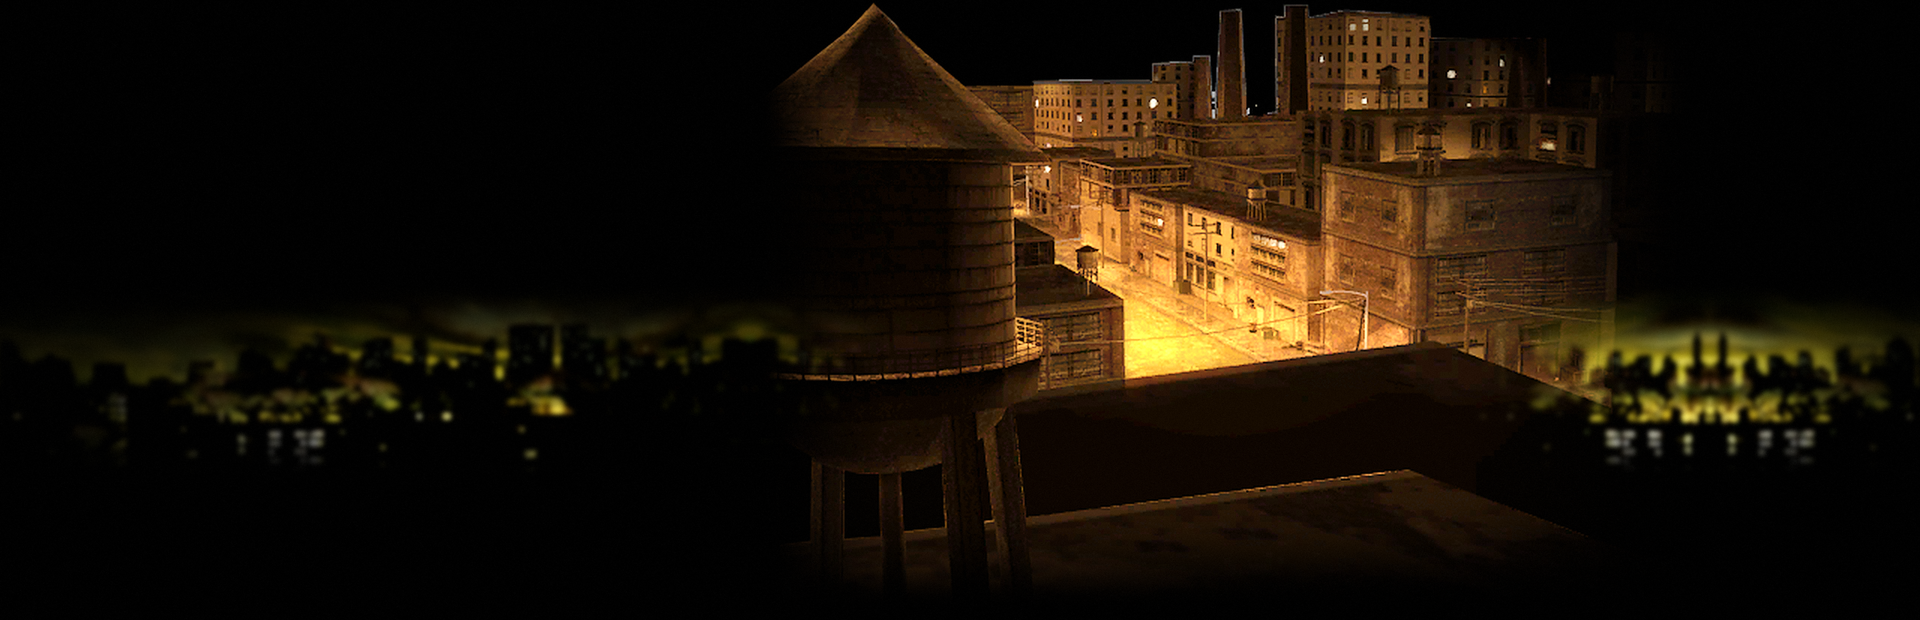
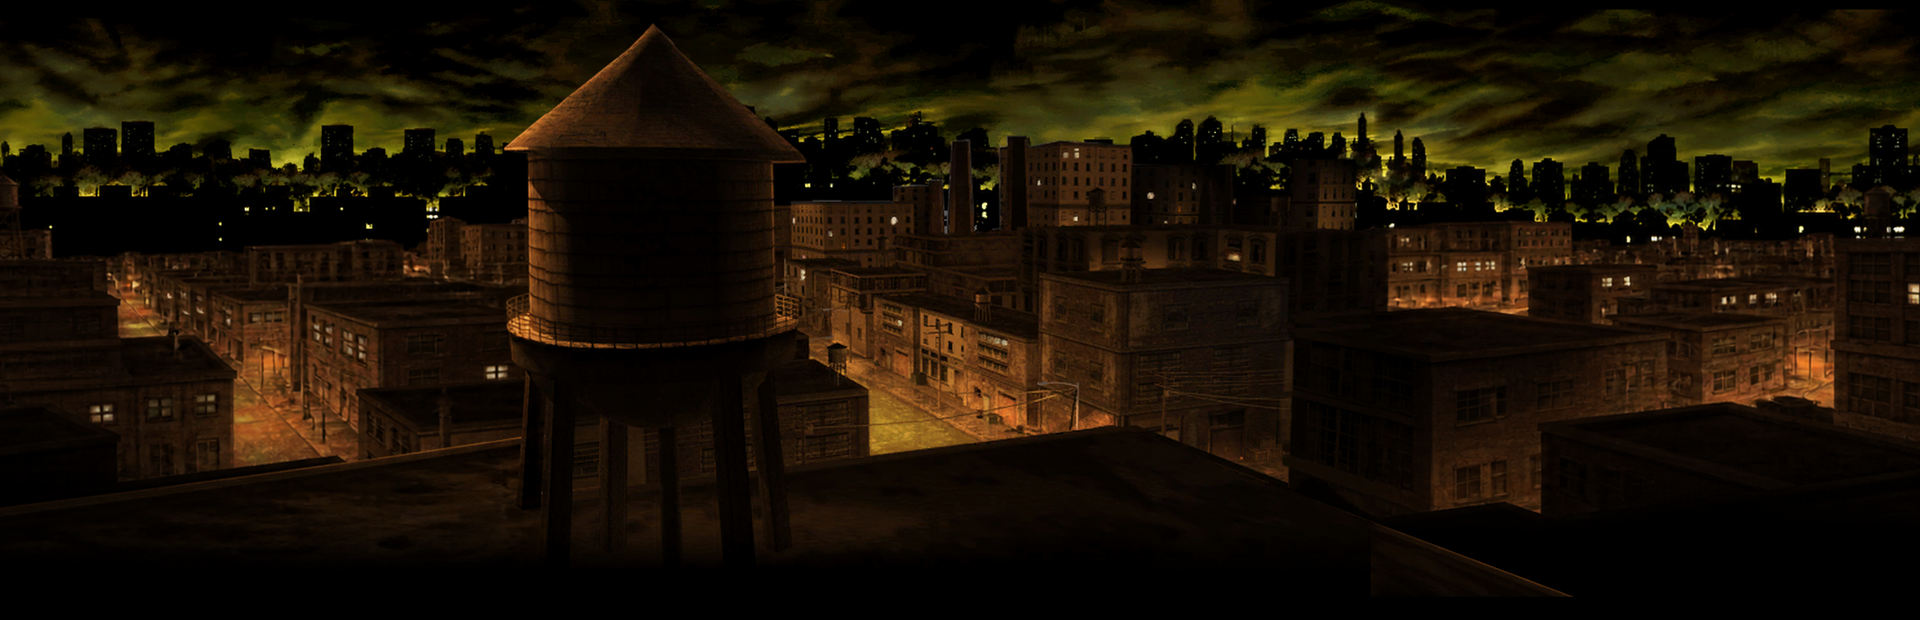
chore(branding): refresh artwork from HD widescreen assets
Use the published HD city panorama and title while retaining the original
Impact Fan Recomp subtitle. Update the owner-approved artwork fingerprint
and exercise Add to Steam with the actual Windows and Linux payload art.

diff --git a/scripts/make-branding.py b/scripts/make-branding.py
@@ -3,11 +3,14 @@
 
     python scripts/make-branding.py render [--out branding]
     python scripts/make-branding.py masters --corpus <decoded-texture-corpus> [--out branding]
+    python scripts/make-branding.py hd-masters --pack <menu-ui-hd-wide.zip> [--out branding]
     python scripts/make-branding.py fan-tag [--font impact.ttf] [--out branding]
 
 `render` needs only Pillow and NumPy and rebuilds everything under `branding/` from
-`branding/masters/` (the shield, the title wordmark, the title-screen scene and its skyline,
-and `cover.jpg`, the official cover scan, when present). `masters` rebuilds those four masters from the decoded
+`branding/masters/` (the shield, the title wordmark, the title-screen scene and its skyline;
+the legacy 640px scene also uses `cover.jpg`, the official cover scan, when present).
+`hd-masters` replaces the scene, skyline and wordmark from a published HD widescreen menu pack;
+the existing shield and subtitle masters are retained. `masters` rebuilds the original masters from the decoded
 textures of a dump: the corpus is the one `scripts/hd_corpus.py` writes (`corpus.json` plus
 `originals/`), and the source of every master is recorded in `branding/README.md`.
 
@@ -21,6 +24,7 @@ committing exactly these files (D98). `scripts/check-source-tree.py` pins them b
 of `branding/SHA256SUMS`, which this script writes last.
 """
 import argparse
+import configparser
 import hashlib
 import json
 import struct
@@ -28,6 +32,7 @@ import sys
 import zlib
 from io import BytesIO
 from pathlib import Path
+from zipfile import ZipFile
 
 import numpy as np
 from PIL import Image, ImageDraw, ImageFilter, ImageFont, ImageOps
@@ -105,6 +110,12 @@ def master_wordmark(src):
     logo = rgbi.convert('RGBA')
     logo.putalpha(alpha)
     logo = logo.crop(alpha_bbox(logo))
+    return ink_wordmark(logo)
+
+
+def ink_wordmark(logo):
+    """Keep the silver artwork intact and put dark ink behind its transparent letter openings."""
+    logo = logo.crop(alpha_bbox(logo))
     pad = 8
     canvas = Image.new('RGBA', (logo.width + 2 * pad, logo.height + 2 * pad), (0, 0, 0, 0))
     canvas.paste(logo, (pad, pad))
@@ -116,11 +127,71 @@ def master_wordmark(src):
     above = np.maximum.accumulate(sol, axis=0)
     below = np.maximum.accumulate(sol[::-1], axis=0)[::-1]
     plate = above & below & ~sol  # the plate behind FIGHT FOR NY: letters open at its edge
-    plate[:, :pad + 330] = False
+    plate[:, :pad + round(logo.width * 0.17)] = False
     holes_img = Image.fromarray(((holes | plate) * 255).astype(np.uint8)).filter(ImageFilter.MaxFilter(3))
     fill = Image.new('RGBA', canvas.size, INK + (255,))
     fill.putalpha(holes_img)
     return Image.alpha_composite(fill, canvas)
+
+
+def hd_masters(pack, out):
+    """Assemble the published HD pack's prestart tiles at the authored idle positions.
+
+    Three pixels per logical pixel gives a 5120x1440 32:9 master. Side slabs
+    contribute only outside the original 640px stage. No mirrored or invented tiles.
+    """
+    ids = {
[6 lines of base64/hex data omitted]
+    }
+    with ZipFile(pack) as archive:
+        manifests = [n for n in archive.namelist() if n.endswith('/manifest.ini') or n == 'manifest.ini']
+        if len(manifests) != 1:
+            raise ValueError('HD pack must contain exactly one manifest.ini')
+        manifest = manifests[0]
+        prefix = manifest[:-len('manifest.ini')]
+        cfg = configparser.ConfigParser()
+        cfg.read_string(archive.read(manifest).decode('utf-8-sig'))
+
+        def texture(path):
+            return Image.open(BytesIO(archive.read(prefix + path))).convert('RGBA')
+
+        def layer(first, second):
+            result = Image.new('RGBA', (5120, 1536))
+            for item in cfg['wide'][first].split(';'):
+                offset, path = item.split(':', 1)
+                x = 1600 + int(offset) * 3
+                slab = texture(path).resize((1536, 1536), Image.LANCZOS)
+                # Runtime side slabs overlap their anchor; retain only offstage scenery.
+                left, right = max(0, x), min(5120, x + 1536)
+                if int(offset) < 0:
+                    right = min(right, 1600)
+                else:
+                    left = max(left, 3520)
+                if right > left:
+                    result.paste(slab.crop((left - x, 0, right - x, 1536)), (left, 0))
+            for key, x, width in ((first, 1600, 1536), (second, 3136, 384)):
+                image = texture(cfg['textures'][key])
+                image = image.resize((width, 1536), Image.LANCZOS)
+                result.paste(image, (x, 0))
+            return result
+
+        sky = layer(*ids['sky'])
+        scene = Image.new('RGBA', (5120, 1440), (0, 0, 0, 255))
+        scene.alpha_composite(sky.crop((0, 402, 5120, 1350)))
+        scene.alpha_composite(layer(*ids['city']).crop((0, 0, 5120, 930)), (0, 306))
+        scene.alpha_composite(layer(*ids['tower']).crop((0, 0, 5120, 1338)), (0, 48))
+        masters = out / 'masters'
+        masters.mkdir(parents=True, exist_ok=True)
+        scene.convert('RGB').save(masters / 'scene.png', optimize=True)
+        sky.crop((0, 402, 5120, 1350)).convert('RGB').save(masters / 'skyline.png', optimize=True)
[1 lines of base64/hex data omitted]
+        ink_wordmark(texture(cfg['textures'][logo_id])).save(masters / 'wordmark.png', optimize=True)
+        print(f'HD masters from {cfg["pack"]["name"]}; archive SHA-256 {hashlib.sha256(pack.read_bytes()).hexdigest()}')
 
 
 def master_scene(corpus):
@@ -179,8 +250,11 @@ def master_fan_tag(font_path, text='FAN RECOMP', cap=152, tracking=24, seed=5):
     return tag.crop(tag.getchannel('A').getbbox())
 
 
-def with_fan_tag(wordmark, tag, gap=-10):
+def with_fan_tag(wordmark, tag, gap=None):
     """The wordmark with the tag under it, right-aligned to the plate."""
+    width = round(wordmark.width * 0.66)
+    tag = tag.resize((width, round(width * tag.height / tag.width)), Image.LANCZOS)
+    gap = round(wordmark.width * 0.008) if gap is None else gap
     canvas = Image.new('RGBA', (wordmark.width, wordmark.height + gap + tag.height), (0, 0, 0, 0))
     canvas.alpha_composite(wordmark, (0, 0))
     canvas.alpha_composite(tag, (wordmark.width - tag.width - 24, wordmark.height + gap))
@@ -294,6 +368,13 @@ def scene_layer(scene, scale, size, x0, y0=0, rows=None):
 
 def hero(scene, skyline, size=(3840, 1240)):
     w, h = size
+    if scene.width > 640:
+        base = ImageOps.fit(scene, size, Image.LANCZOS)
+        rgb = np.asarray(base, np.float32)
+        yy, xx = np.mgrid[0:h, 0:w].astype(np.float32)
+        # Steam draws a separate logo in the lower left.
+        shade = (1 - smooth(xx / w, 0.05, 0.60)) * smooth(yy / h, 0.30, 0.95)
+        return Image.fromarray(np.clip(rgb * (1 - 0.34 * shade[..., None]), 0, 255).astype(np.uint8))
     s = 3.0
     x0 = 1500
     layer, (bw, bh) = scene_layer(scene, s, size, x0)
@@ -320,6 +401,8 @@ def hero(scene, skyline, size=(3840, 1240)):
 
 def wide(scene, wordmark, size, wordmark_width=0.62, y_center=0.66, crop_top=24):
     w, h = size
+    if scene.width > 640:
+        return hd_capsule(scene, wordmark, size, wordmark_width=0.76, y_center=0.61)
     s = w / 640
     big = scene.resize((w, round(480 * s)), Image.LANCZOS).filter(ImageFilter.UnsharpMask(radius=s * 0.8, percent=60, threshold=2))
     rgb = np.asarray(big.crop((0, round(crop_top * s), w, round(crop_top * s) + h)), np.float32)
@@ -338,8 +421,27 @@ def wide(scene, wordmark, size, wordmark_width=0.62, y_center=0.66, crop_top=24)
     return base.convert('RGB')
 
 
+def hd_capsule(scene, wordmark, size, wordmark_width=0.76, y_center=0.61):
+    """Crop the panoramic master without distortion; preserve its existing colour and detail."""
+    w, h = size
+    base = ImageOps.fit(scene, size, Image.LANCZOS).convert('RGBA')
+    mark = wordmark.resize((round(w * wordmark_width), round(w * wordmark_width * wordmark.height / wordmark.width)), Image.LANCZOS)
+    x, y = (w - mark.width) // 2, round(h * y_center - mark.height / 2)
+    shadow = Image.new('RGBA', size)
+    ink = Image.new('RGBA', mark.size, (0, 0, 0, 255))
+    ink.putalpha(mark.getchannel('A'))
+    shadow.alpha_composite(ink, (x, y + max(2, round(h * 0.005))))
+    base.alpha_composite(shadow.filter(ImageFilter.GaussianBlur(max(2, h * 0.012))))
+    base.alpha_composite(mark, (x, y))
+    return base.convert('RGB')
+
+
 def portrait(scene, wordmark, shield, size=(1200, 1800)):
     w, h = size
+    if scene.width > 640:
+        # A tall crop keeps the water tower and street, with the title above it.
+        source = scene.crop((1340, 0, 2300, 1440))
+        return hd_capsule(source, wordmark, size, wordmark_width=0.88, y_center=0.22)
     s = 3.75
     big = scene.resize((round(640 * s), round(480 * s)), Image.LANCZOS).filter(ImageFilter.UnsharpMask(radius=3, percent=60, threshold=2))
     rgb = np.asarray(big.crop((0, 0, w, h)), np.float32)
@@ -406,7 +508,7 @@ def render(out):
     big_wide = wide(scene, wordmark, (1840, 860))
     big_wide.resize((920, 430), Image.LANCZOS).save(out / 'steam/wide.png', optimize=True)
     cover = masters / 'cover.jpg'  # the official cover scan, optional; without it the portrait is built from the scene
-    if cover.exists():
+    if cover.exists() and scene.width <= 640:
         base = portrait_from_cover(Image.open(cover).convert('RGB'), wordmark)
     else:
         base = portrait(scene, wordmark, shield).resize((600, 900), Image.LANCZOS)
@@ -420,7 +522,7 @@ def render(out):
             (out / sub).mkdir(parents=True, exist_ok=True)
         steam_logo(fan).save(out / 'fan/steam/logo.png', optimize=True)
         wide(scene, fan, (1840, 860)).resize((920, 430), Image.LANCZOS).save(out / 'fan/steam/wide.png', optimize=True)
-        if cover.exists():
+        if cover.exists() and scene.width <= 640:
             fan_base = portrait_from_cover(Image.open(cover).convert('RGB'), fan)
         else:
             fan_base = portrait(scene, fan, shield).resize((600, 900), Image.LANCZOS)
@@ -439,12 +541,17 @@ def write_sums(out):
 
 def main():
     parser = argparse.ArgumentParser(description=__doc__, formatter_class=argparse.RawDescriptionHelpFormatter)
-    parser.add_argument('command', choices=('render', 'masters', 'fan-tag'))
+    parser.add_argument('command', choices=('render', 'masters', 'hd-masters', 'fan-tag'))
     parser.add_argument('--out', type=Path, default=Path(__file__).resolve().parents[1] / 'branding')
     parser.add_argument('--corpus', type=Path)
+    parser.add_argument('--pack', type=Path, help='hd-masters: published menu-ui-hd-wide ZIP')
     parser.add_argument('--font', type=Path, default=Path(r'C:\Windows\Fonts\impact.ttf'),
                         help='fan-tag: a heavy condensed font for the FAN RECOMP tag (default: Impact on Windows)')
     args = parser.parse_args()
+    if args.command == 'hd-masters':
+        if not args.pack:
+            parser.error('hd-masters needs --pack')
+        hd_masters(args.pack, args.out)
     if args.command == 'masters':
         if not args.corpus:
             parser.error('masters needs --corpus')

diff --git a/tests/unit/test_steam_shortcuts.py b/tests/unit/test_steam_shortcuts.py
@@ -4,6 +4,7 @@ nothing here reads or writes a real Steam."""
 import importlib.util
 import json
 from pathlib import Path
+import shutil
 import struct
 
 import pytest
@@ -271,6 +272,64 @@ def test_the_engine_answers_status_add_and_remove_as_json(tmp_path, monkeypatch)
     monkeypatch.setenv('DEFJAM_STEAM_ROOT', str(tmp_path / 'nowhere'))
     assert engine.main(['--steam', 'add'] + common) == 2
     assert 'Sign in to Steam' in json.loads(result.read_text())['message']
+
+
+@pytest.mark.parametrize('platform', ['windows-x64', 'linux-x64'])
+def test_add_to_steam_refreshes_owned_art_from_the_shipped_branding(tmp_path, monkeypatch, platform):
+    """Exercise the app's engine command with the actual platform payload and PNGs."""
+    Image = pytest.importorskip('PIL.Image')
+    package = load('steam_branding_package', ROOT / 'scripts/package-setup.py')
+    payload = tmp_path / 'payload'
+    for source in (ROOT / 'branding').rglob('*'):
+        name = source.relative_to(ROOT).as_posix()
+        if source.is_file() and package.payload_wants(name, platform):
+            target = payload / 'source' / name
+            target.parent.mkdir(parents=True, exist_ok=True)
+            shutil.copyfile(source, target)
+
+    other = other_shortcut(0x9000_0001, 'Other game', r'C:\Games\other.exe')
+    root = steam_folder(tmp_path, other)
+    record = tmp_path / 'steam.json'
+    # An earlier install owns this old artwork; adding again must refresh it.
+    steam.add(root, PROGRAM, INSTALL, art(tmp_path / 'old'), record, running=lambda r: [])
+    original_entries = entries(root)
+    monkeypatch.setenv('DEFJAM_STEAM_ROOT', str(root))
+    result = tmp_path / 'result.json'
+    common = ['--payload', str(payload), '--app-program', str(PROGRAM), '--install-dir', INSTALL,
+              '--steam-record', str(record), '--steam-result', str(result)]
+    assert engine.main(['--steam', 'add'] + common) == 0
+    assert json.loads(result.read_text())['added'] is True
+    assert entries(root) == original_entries  # no duplicate and no shortcut option/tag changes
+    appid = steam.shortcut_appid('"%s"' % PROGRAM)
+    grid = root / 'userdata' / str(ACCOUNT) / 'config/grid'
+    expected = {
+        'p': ('fan/steam/portrait.png', (600, 900)),
+        '': ('fan/steam/wide.png', (920, 430)),
+        '_logo': ('fan/steam/logo.png', None),
+        '_hero': ('steam/hero.png', (1920, 620)),
+        '_icon': ('steam/icon.png', (256, 256)),
+    }
+    assert len(list(grid.glob('*.png'))) == 5
+    for suffix, (source, size) in expected.items():
+        placed = grid / f'{appid}{suffix}.png'
+        assert placed.read_bytes() == (ROOT / 'branding' / source).read_bytes()
+        with Image.open(placed) as image:
+            image.load()
+            assert image.format == 'PNG'
+            if size:
+                assert image.size == size
+            else:
+                assert image.width == 1280 and image.mode == 'RGBA'
+    saved = json.loads(record.read_text())
+    assert all(steam.digest(Path(path)) == digest for path, digest in saved['art_hashes'].items())
+
+    hero = grid / f'{appid}_hero.png'
+    hero.write_bytes(b'player-chosen artwork')
+    assert engine.main(['--steam', 'add'] + common) == 0
+    assert hero.read_bytes() == b'player-chosen artwork' and entries(root) == original_entries
+    assert engine.main(['--steam', 'remove'] + common) == 0
+    assert entries(root) == [other]
+    assert list(grid.iterdir()) == [hero]  # retain custom art; remove everything this app owned
 
 
 # ---------------------------------------------------------------- Linux (the AppImage, design §6, §7)

diff --git a/scripts/check-source-tree.py b/scripts/check-source-tree.py
@@ -44,8 +44,9 @@ APPROVED_README_MEDIA = {
 # The whole set is pinned by the SHA-256 of branding/SHA256SUMS, which lists every other file in
 # branding/ and is written by scripts/make-branding.py. Changing any file therefore needs the
 # owner to approve a new pin here.
+# 2026-11-05: owner approved the HD city/title refresh and retained the original Impact subtitle.
 BRANDING_SUMS = 'branding/SHA256SUMS'
[2 lines of base64/hex data omitted]
 
 
 def approved_branding(repo):

diff --git a/branding/README.md b/branding/README.md
@@ -5,7 +5,8 @@ icons and the Steam Deck / Linux library artwork. **This is the game's own artwo
 from its textures. It remains the property of its rights holders; the project's MIT licence
 does not cover it.** The owner approved committing exactly these files (D98, 2026-10-10);
 `scripts/check-source-tree.py` pins them by the SHA-256 of `SHA256SUMS`, so any change needs
-a new approval.
+a new approval. On 2026-11-05 the owner approved the HD city/title refresh below,
+retaining the original Impact subtitle.
 
 ## What is here
 
@@ -15,33 +16,37 @@ a new approval.
 | `icon/macos/defjam.icns` | macOS: `Def Jam Setup.app`, `Def Jam Recompiled.app`, and the Dock. Inset on a transparent canvas with a soft shadow, as macOS expects. |
 | `icon/png/defjam-N.png` | Linux: the application-menu and desktop entries (256), the setup wizard (128) and any other size a desktop asks for. |
 | `icon/window/*.rgba` | Raw 128x128 RGBA, compiled into the macOS and Linux game as the SDL window icon (`cmake/app_icon.cmake`). |
-| `steam/portrait.png` 600x900 (the cover), `wide.png` 920x430, `hero.png` 1920x620, `logo.png` 1280 wide (transparent), `icon.png` 256 | The Steam library artwork. The Linux setup copies the first four into the Steam shortcut's `grid` folder (`<appid>p.png`, `<appid>.png`, `<appid>_hero.png`, `<appid>_logo.png`). |
+| `steam/portrait.png` 600x900, `wide.png` 920x430, `hero.png` 1920x620, `logo.png` 1280 wide (transparent), `icon.png` 256 | The Steam library artwork. The city backdrop is cropped to each aspect without stretching. The hero is background-only because Steam draws the separate logo over it. The Linux setup copies the first four into the Steam shortcut's `grid` folder (`<appid>p.png`, `<appid>.png`, `<appid>_hero.png`, `<appid>_logo.png`). |
 | `github/social-preview-1280x640.jpg` | The repository's social preview image (upload it under Settings, Social preview). |
 | `fan/` | The same logo, wide and portrait capsules and social preview with **FAN RECOMP** under the title, so the port reads as a fan project. `fan/steam/` is what the Linux setup places for Steam (its hero and icon are the plain set's); the plain files above are kept as the editable originals. |
-| `masters/` | The source images everything else is rendered from, including `fan-tag.png`, the FAN RECOMP tag drawn once in Impact (distressed with the plate's speckle and scratches, outlined in its ink) so rendering does not need the font. |
+| `masters/` | The source images everything else is rendered from, including `fan-tag.png`, the FAN RECOMP tag drawn once in Impact (distressed with the plate's speckle and scratches, outlined in its ink) so rendering does not need the font. The tag is fitted under the right-hand title plate. |
 | `SHA256SUMS` | The fingerprint of every file above. |
 
 ## Where the masters come from
 
-Decoded textures of the supported USA Xbox dump (ids as in the corpus `scripts/hd_corpus.py`
-writes):
+The shield comes from the supported USA Xbox dump. The city and title use the
+published **HD Widescreen Menus 1.4.0** pack's prestart artwork (archive SHA-256
[1 lines of base64/hex data omitted]
+Texture IDs below use the corpus format `scripts/hd_corpus.py` writes.
 
 | Master | Texture |
 |---|---|
 | `shield.png` | `screens/battle/support/battlemodeLogosIcons.big::battlemodeLogosIcons.xsh`, `76ed1cf6...` (256x256), the stray strip at its right edge removed, upscaled 8x with the edge re-sharpened |
-| `wordmark.png` | `misc.viv::nis_logo.xsh`, `7454dcc2...` (512x128), 4x on premultiplied channels; the letters, transparent in the texture, are filled with ink so it reads on any backdrop |
-| `scene.png` | the title screen's three layers, `demoStrt.xsh` `f3bcc263...` (sky), `e2c11109...` (rooftops), `35be3a12...` (water tower), composited at their native 640x480 |
-| `skyline.png` | the skyline strip of the sky layer, used to extend the hero past the scene |
[1 lines of base64/hex data omitted]
+| `wordmark.png` | `screens/intMain/prestart.big::prestart.xsh`, title texture `c1943283...`, the pack's 2048x512 restoration, cropped to its visible bounds; silver pixels retained and transparent letter openings filled with ink |
+| `scene.png` | 5120x1440 panorama assembled from the pack's sky `627117d2...` + `91955063...`, city `fdc3666e...` + `99aa2410...`, and water tower `427424b7...` + `682f298f...`, plus their published side slabs. Authored idle positions: sky source y−134, city y102, tower y16; active city/tower heights 310/446 logical pixels. Side slabs contribute only outside the original 640px stage. |
+| `skyline.png` | 5120x948 visible sky layer before city/tower compositing; retained as an editable layer. The HD hero uses the full panorama directly. |
[1 lines of base64/hex data omitted]
 
-The textures are 640x480-era artwork: the renders are as sharp as the sources allow, and the
-backdrop is graded (lifted, vignetted, grain) rather than invented.
+The HD exports retain the pack's colours and texture detail. Crops preserve aspect ratio;
+the hero has a subtle lower-left shade for Steam's separate logo. No mirrored skyline,
+extra sharpening, artificial grain or new generated artwork is added by the branding renderer.
 
 ## Regenerate
 
 ```
 python scripts/make-branding.py render                         # everything from masters/ (Pillow, NumPy)
 python scripts/make-branding.py masters --corpus <corpus dir>  # masters from your own dump's corpus, then render
+python scripts/make-branding.py hd-masters --pack <menu-ui-hd-wide-v1.4.0.zip> # HD city/title, then render
 python scripts/make-branding.py fan-tag --font <font.ttf>      # redraw the FAN RECOMP tag master, then render
 ```
 
